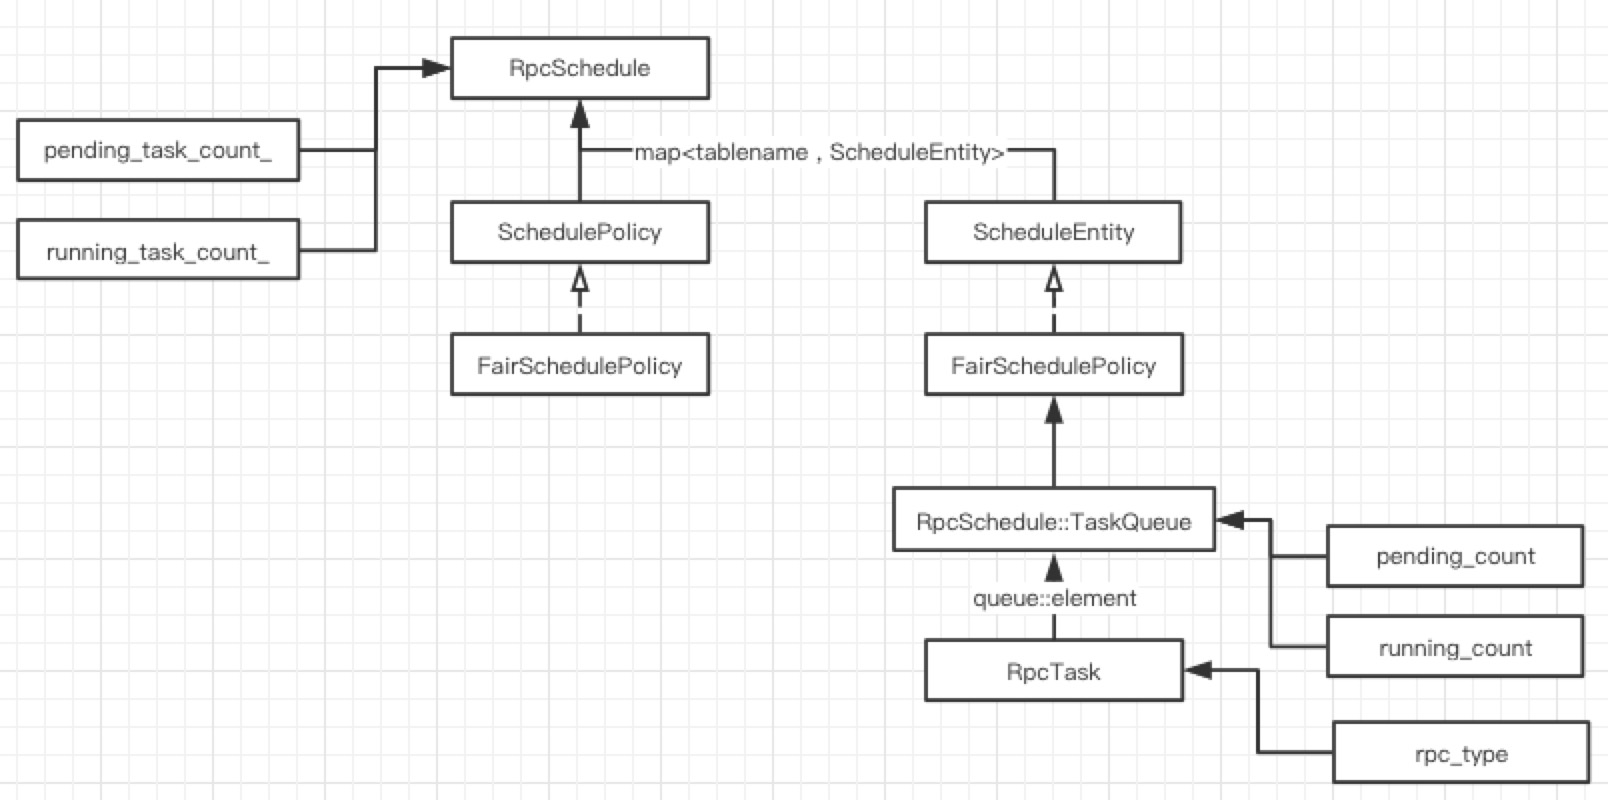
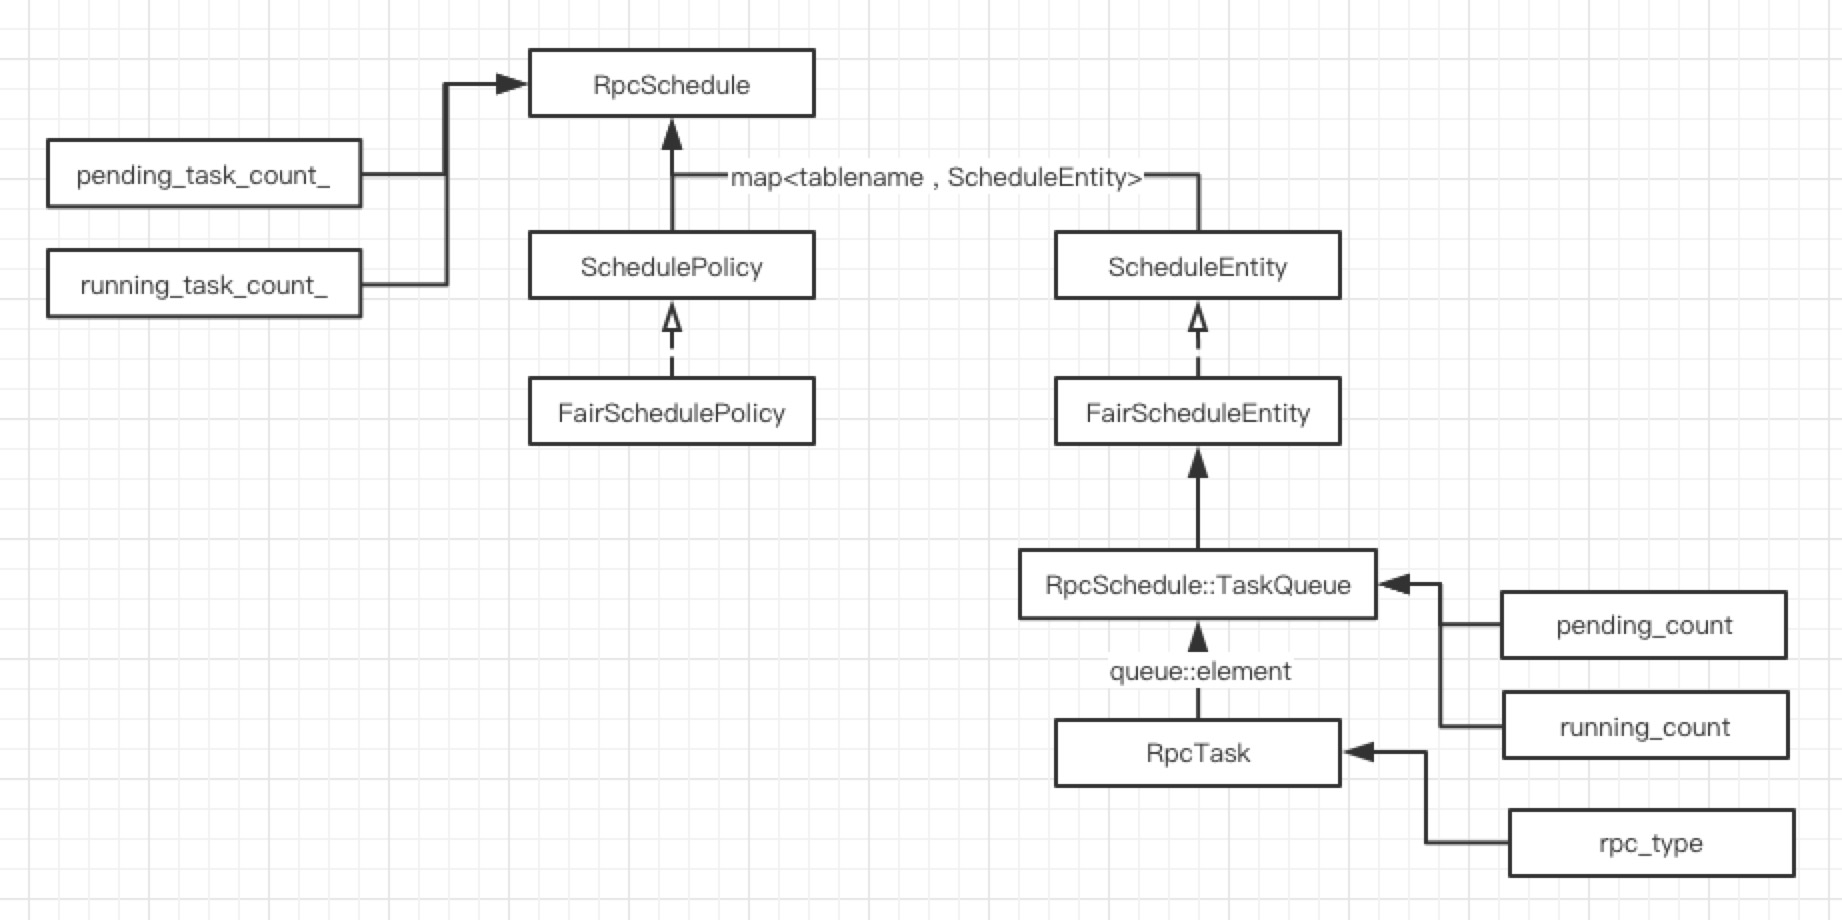
update rpc arch

Changed region(s): [[0.0, 0.0312, 0.7463, 0.5], [0.5286, 0.5938, 0.995, 1.0], [0.5597, 0.4062, 0.7463, 0.5312]]

diff --git a/src/tera/tablet_node/rpc/tn_rpc.md b/src/tera/tablet_node/rpc/tn_rpc.md
@@ -40,11 +40,20 @@ TableServer 的读、Scan、Quta请求的调度策略都是相同的，类图及
 
 整个调度的策略，在RPC远程调用做一下队列的缓冲。
 
-1. RpcSchedule内部维护typedef std::map<TableName, ScheduleEntity*> TableList; 既表名 -> rpc请求队列（read、scan、quota是三个RpcSchedule）。
-2. ScheduleEntity是队列中的一个节点，内部有一个指针指向队列头。
-3. RpcSchedule 维护三个重要接口EnqueueRpc、DequeueRpc、FinishRpc。
-4. 请求进来后调用EnqueueRpc，加入threadpool进行调度，在回调中调用DequeueRpc 根据FairSchedulePolicy选择队列中的FairScheduleEntity进行执行，执行完调用FinishRpc。
-5. 整个生命流程中维护RpcSchedule 的 成员变量，pending_task_count_、running_task_count_，以及task_queue的pending_count、running_count 以及 FairScheduleEntity的last_update_time、elapse_time、running_count。
-   1. 注意上面维护的统计变量的维度，包括RpcSchedule维度、表维度、RPC维度。
-6. FairSchedulePolicy维护Pick、Done、Enable、Disable、UpdateEntity五个接口。
-   1. Pick：
+RpcSchedule 内部维护 表名 -> 调度单元的映射（既std::map<TableName, ScheduleEntity*> TableList），调度单元（ScheduleEntity）内部有有一个队列（既TaskQueue）记录RPC任务（既RpcTask）。
+
+RpcSchedule 维护三个重要接口EnqueueRpc、DequeueRpc、FinishRpc。
+
+1. EnqueueRpc：通过tablename 获取调度单元，再获取对应的队列，将RpcTask加入队列。如果TaskQueue的pending_count不为0，则调用FairSchedulePolicy的Enable的接口，将调度单元设置为可调度。
+
+2. DequeueRpc：调用FairSchedulePolicy的pick接口获取要执行的RpcTask。Pick的策略是遍历std::map<TableName, ScheduleEntity*> TableList，判断当前调度单元（ScheduleEntity）是否是enable，如果是取出队列，从头部取出一个RpcTask区执行。如果调度单元的pending_count为0，则调用FairSchedulePolicy的Disable接口将调度单元（ScheduleEntity）设置为不可调度
+
+   ##### 注意：如果一个table积压的任务较多，其他table的任务可能长时间等地啊，因超时饿死。
+
+3. FinishRpc：调用FairSchedulePolicy的Done的接口，更新调度单元（ScheduleEntity）的统计数据。
+
+##### 注意：整个调度策略为了不同维度的统计数据，主要包括一下
+
+1. RpcSchedule： pending_task_count_、running_task_count_（整个调度实例的运行 和 挂起的任务数量，read、scan、quota是三个调度实例）
+2. TaskQueue：一个表对应一个TaskQueue，既表维度的pending_count、running_count。
+3. FairScheduleEntity：调度单元，也是表维度的pickable（是否可调度，取决于TaskQueue的pending_count是否大于0）、last_update_time（调度单元最后一次更新时间）、elapse_time（调度单元总耗时）、running_count（调度单元总运行rpc数量）
